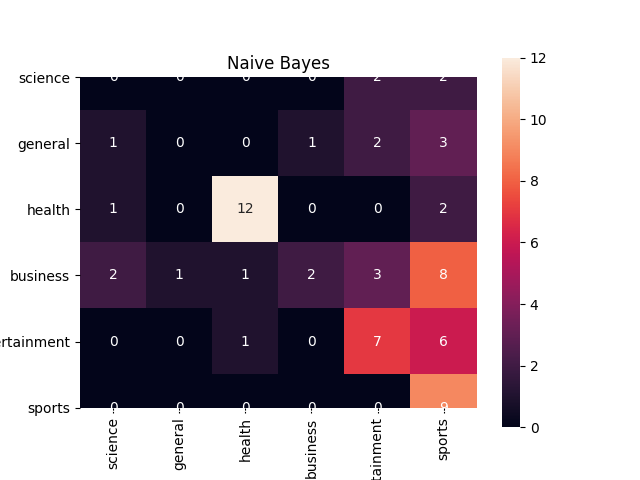
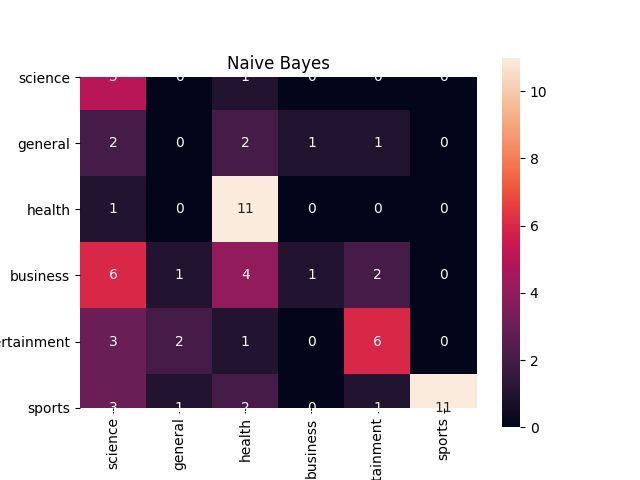
+ ngram

diff --git a/NewsClassification_NaiveBayes.py b/NewsClassification_NaiveBayes.py
@@ -5,19 +5,19 @@ from NewsClassification import lemma_data
 (trainX, trainY), (testX, testY) = lemma_data()
 
 # Vectorization_count the total number of each word
-#from sklearn.feature_extraction.text import CountVectorizer
-#vectorizer = CountVectorizer()
-#X = vectorizer.fit_transform(trainX, trainY)
+from sklearn.feature_extraction.text import CountVectorizer
 from sklearn.feature_extraction.text import TfidfVectorizer
+from sklearn.feature_extraction.text import TfidfTransformer
 from sklearn.naive_bayes import MultinomialNB
 from sklearn.pipeline import make_pipeline
 from sklearn.metrics import confusion_matrix, accuracy_score
 #print(X.toarray())
-model = make_pipeline(TfidfVectorizer(), MultinomialNB())
+model = make_pipeline(TfidfVectorizer(sublinear_tf=True, norm='l2', ngram_range=(1, 2), stop_words='english'), MultinomialNB())
 model.fit(trainX, trainY)
 predict_categories = model.predict(testX)
 acc = accuracy_score(testY, predict_categories)
 print("Final accuracy:", acc)
+
 
 # plot
 import matplotlib.pyplot as plt
